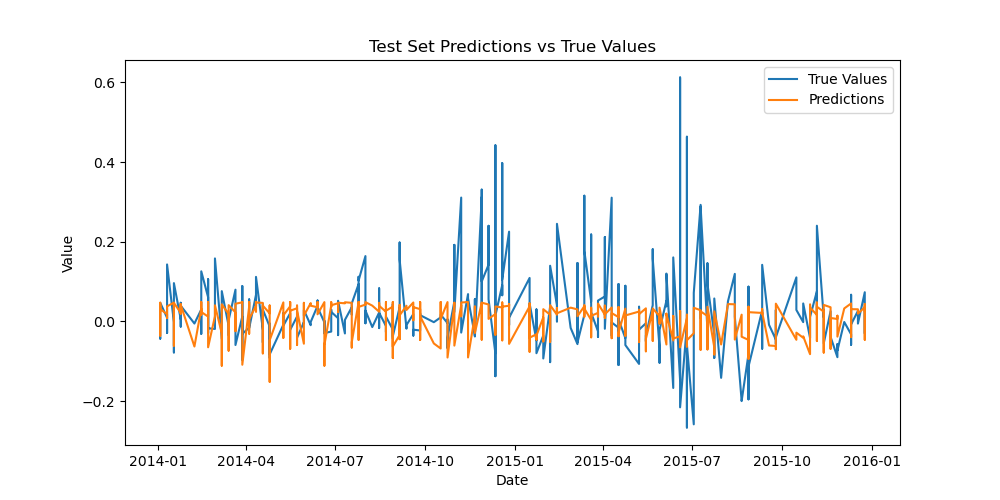
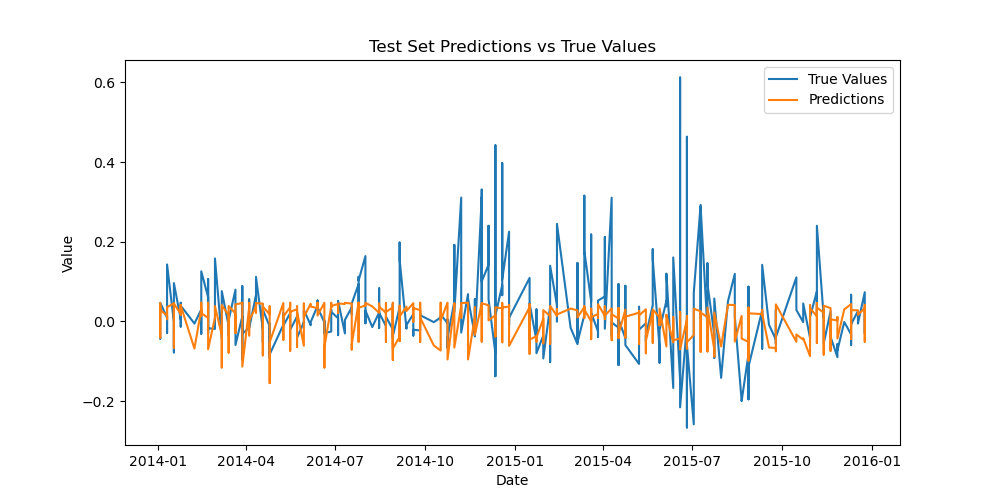
Update Study1 @0506

diff --git a/Study2_LSTM_ProMax.py b/Study2_LSTM_ProMax.py
@@ -1,0 +1,126 @@
+import pandas as pd
+import numpy as np
+import matplotlib.pyplot as plt
+from sklearn.model_selection import KFold
+from sklearn.model_selection import train_test_split
+from sklearn.preprocessing import StandardScaler
+from sklearn.impute import KNNImputer
+from sklearn.metrics import mean_squared_error, r2_score, mean_absolute_error
+import tensorflow as tf
+from tensorflow.keras.layers import Input, Dense, LSTM, Dropout, Bidirectional
+import optuna
+
+# Load data
+data_path = 'study1_final_all.csv'
+data = pd.read_csv(data_path)
+data['Date'] = pd.to_datetime(data['Date'])
+data.sort_values('Date', inplace=True)
+
+# Ensure 'Scode' is treated as a string to avoid any numeric interpretation
+data['Scode'] = data['Scode'].astype(str)
+
+# Splitting unique stock codes into training and testing sets
+unique_codes = data['Scode'].unique()
+train_codes, test_codes = train_test_split(unique_codes, test_size=0.4, random_state=42)
+
+# Splitting the dataset based on the train and test codes
+train_data = data[data['Scode'].isin(train_codes)].dropna()
+test_data = data[data['Scode'].isin(test_codes)].dropna()
+
+# Data preprocessing
+imputer = KNNImputer(n_neighbors=5)
+scaler = StandardScaler()
+
+# Feature engineering for train and test sets
+features_train = train_data[['GB_emotion']].copy()
+features_train['GB_emotion'] = imputer.fit_transform(features_train[['GB_emotion']].values.reshape(-1, 1))
+features_scaled_train = scaler.fit_transform(features_train['GB_emotion'].values.reshape(-1, 1))
+features_scaled_train = np.reshape(features_scaled_train, (features_scaled_train.shape[0], 1, 1))
+
+features_test = test_data[['GB_emotion']].copy()
+features_test['GB_emotion'] = imputer.transform(features_test[['GB_emotion']].values.reshape(-1, 1))
+features_scaled_test = scaler.transform(features_test['GB_emotion'].values.reshape(-1, 1))
+features_scaled_test = np.reshape(features_scaled_test, (features_scaled_test.shape[0], 1, 1))
+
+# Target variable handling for train and test sets
+target_train = train_data['Wretnd'].values
+target_test = test_data['Wretnd'].values
+
+# Optuna objective function
+def objective(trial):
+    kf = KFold(n_splits=5, shuffle=True, random_state=42)
+    mse_scores = []
+
+    for train_index, test_index in kf.split(features_scaled_train):
+        X_train, X_test = features_scaled_train[train_index], features_scaled_train[test_index]
+        y_train, y_test = target_train[train_index], target_train[test_index]
+
+        # Model building
+        model = tf.keras.Sequential([
+            Input(shape=(1, 1)),
+            Bidirectional(LSTM(trial.suggest_int('lstm_units', 50, 200), return_sequences=True)),
+            Dropout(trial.suggest_float('dropout_rate', 0.1, 0.5)),
+            tf.keras.layers.SimpleRNN(trial.suggest_int('lstm_units', 50, 200)),
+            Dense(1, activation='relu')
+        ])
+
+        # Compile model, add gradient clipping to prevent exploding gradients
+        lr = trial.suggest_float('learning_rate', 1e-5, 1e-3, log=True)
+        model.compile(optimizer=tf.keras.optimizers.Adam(learning_rate=lr, clipnorm=1.0), loss='mean_squared_error')
+
+        # Model training
+        model.fit(X_train, y_train, epochs=trial.suggest_int("epochs", 10, 100), batch_size=trial.suggest_categorical("batch_size", [16, 32, 64]), verbose=0)
+
+        # Model evaluation
+        mse = model.evaluate(X_test, y_test, verbose=0)
+        if np.isnan(mse):
+            continue
+        mse_scores.append(mse)
+
+    return np.mean(mse_scores) if mse_scores else float('inf')
+
+# Run Optuna optimization
+study = optuna.create_study(direction='minimize')
+study.optimize(objective, n_trials=100)
+
+# Using best parameters to rebuild the model for testing
+best_model = tf.keras.Sequential([
+    Input(shape=(1, 1)),
+    Bidirectional(LSTM(study.best_trial.params['lstm_units'])),
+    Dropout(study.best_trial.params['dropout_rate']),
+    Dense(1)
+])
+
+best_model.compile(optimizer=tf.keras.optimizers.Adam(learning_rate=study.best_trial.params['learning_rate']), loss='mean_squared_error')
+best_model.fit(features_scaled_train, target_train, epochs=study.best_trial.params['epochs'], batch_size=study.best_trial.params['batch_size'], verbose=1)
+
+# Predicting the test set and calculating metrics
+test_predictions = best_model.predict(features_scaled_test).flatten()
+mse = mean_squared_error(target_test, test_predictions)
+rmse = np.sqrt(mse)
+r2 = r2_score(target_test, test_predictions)
+mae = mean_absolute_error(target_test, test_predictions)
+
+# Correct Prediction Direction Proportion
+direction_predictions = np.sign(test_predictions[1:] - test_predictions[:-1])
+true_directions = np.sign(target_test[1:] - target_test[:-1])
+correct_directions = direction_predictions == true_directions
+direction_accuracy = np.mean(correct_directions)
+
+# Display metrics
+print(f"Test MSE: {mse}")
+print(f"Test RMSE: {rmse}")
+print(f"Test R2: {r2}")
+print(f"Test MAE: {mae}")
+print(f"Direction Accuracy: {direction_accuracy * 100:.2f}%")
+
+# Visualize test set results
+plt.figure(figsize=(10, 5))
+plt.plot(test_data['Date'], target_test, label='True Values')
+plt.plot(test_data['Date'], test_predictions, label='Predictions')
+plt.title('Test Set Predictions vs True Values')
+plt.xlabel('Date')
+plt.ylabel('Value')
+plt.legend()
+plt.savefig('test_predictions.png')
+plt.show()

diff --git a/Study2_XGB.py b/Study2_XGB.py
@@ -3,10 +3,8 @@ import numpy as np
 from sklearn.model_selection import train_test_split
 from sklearn.preprocessing import StandardScaler
 from sklearn.impute import KNNImputer
-import tensorflow as tf
-from tensorflow.keras.models import Sequential
-from tensorflow.keras.layers import GRU, Dense
 from sklearn.metrics import mean_squared_error, r2_score, mean_absolute_error
+import xgboost as xgb
 
 # Load data
 data_path = 'study1_final_all.csv'
@@ -38,26 +36,17 @@ features_test = test_data[['GB_emotion']].copy()
 features_test['GB_emotion'] = imputer.transform(features_test[['GB_emotion']].values.reshape(-1, 1))
 features_scaled_test = scaler.transform(features_test)
 
-# Reshape for GRU input
-features_scaled_train = np.reshape(features_scaled_train, (features_scaled_train.shape[0], 1, 1))
-features_scaled_test = np.reshape(features_scaled_test, (features_scaled_test.shape[0], 1, 1))
-
 # Target variable handling for train and test sets
 target_train = train_data['Wretnd'].values
 target_test = test_data['Wretnd'].values
 
-# Building GRU model
-model = Sequential([
-    GRU(32, input_shape=(1, 1), return_sequences=True),
-    Dense(1)
-])
-model.compile(optimizer='adam', loss='mse')
-
-# Train the model
-model.fit(features_scaled_train, target_train, epochs=10, verbose=1)
+# Initialize and train XGBoost model
+model = xgb.XGBRegressor(objective ='reg:squarederror', colsample_bytree = 0.3, learning_rate = 0.1,
+                max_depth = 5, alpha = 10, n_estimators = 10)
+model.fit(features_scaled_train, target_train)
 
 # Predict on test data
-y_pred = model.predict(features_scaled_test).flatten()
+y_pred = model.predict(features_scaled_test)
 
 # Evaluate the model
 mse = mean_squared_error(target_test, y_pred)

diff --git a/Study2_RandomForest.py b/Study2_RandomForest.py
@@ -3,9 +3,7 @@ import numpy as np
 from sklearn.model_selection import train_test_split
 from sklearn.preprocessing import StandardScaler
 from sklearn.impute import KNNImputer
-import tensorflow as tf
-from tensorflow.keras.models import Sequential
-from tensorflow.keras.layers import GRU, Dense
+from sklearn.ensemble import RandomForestRegressor
 from sklearn.metrics import mean_squared_error, r2_score, mean_absolute_error
 
 # Load data
@@ -38,26 +36,16 @@ features_test = test_data[['GB_emotion']].copy()
 features_test['GB_emotion'] = imputer.transform(features_test[['GB_emotion']].values.reshape(-1, 1))
 features_scaled_test = scaler.transform(features_test)
 
-# Reshape for GRU input
-features_scaled_train = np.reshape(features_scaled_train, (features_scaled_train.shape[0], 1, 1))
-features_scaled_test = np.reshape(features_scaled_test, (features_scaled_test.shape[0], 1, 1))
-
 # Target variable handling for train and test sets
 target_train = train_data['Wretnd'].values
 target_test = test_data['Wretnd'].values
 
-# Building GRU model
-model = Sequential([
-    GRU(32, input_shape=(1, 1), return_sequences=True),
-    Dense(1)
-])
-model.compile(optimizer='adam', loss='mse')
-
-# Train the model
-model.fit(features_scaled_train, target_train, epochs=10, verbose=1)
+# Initialize and train the Random Forest model
+rf_model = RandomForestRegressor(n_estimators=100, random_state=42)
+rf_model.fit(features_scaled_train, target_train)
 
 # Predict on test data
-y_pred = model.predict(features_scaled_test).flatten()
+y_pred = rf_model.predict(features_scaled_test)
 
 # Evaluate the model
 mse = mean_squared_error(target_test, y_pred)
